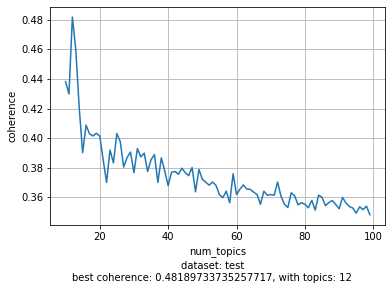
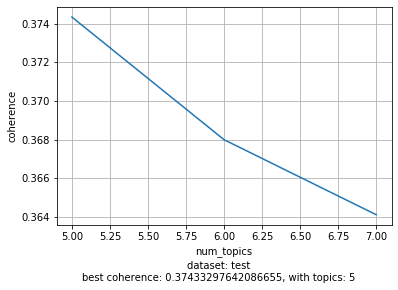
lwwasdasdfasdfsdfsadffeasdf

Changed region(s): [[0.0, 0.031, 1.0, 0.9931]]

diff --git a/corpora/notebooks/test_gensim.py b/corpora/notebooks/test_gensim.py
@@ -1,7 +1,7 @@
 #!/usr/bin/env python
 # coding: utf-8
 
-# In[1]:
+# In[2]:
 
 
 import pandas as pd
@@ -14,7 +14,7 @@ import gensim.models.coherencemodel
 import matplotlib.pyplot as plt
 
 
-# In[54]:
+# In[3]:
 
 
 def make_data(dataset_name):
@@ -78,7 +78,7 @@ def find_best_topic_num(datasets, lim_low, lim_high):
     
 
 
-# In[56]:
+# In[7]:
 
 
 # https://www.machinelearningplus.com/nlp/topic-modeling-gensim-python/
@@ -87,8 +87,8 @@ def find_best_topic_num(datasets, lim_low, lim_high):
 # The weights reflect how important a keyword is to that topic
 # usually one cand find a name for the topic (has to look at the keywords manually)
 
-datasets = ["norm_tweet", "tweet"]
-find_best_topic_num(datasets, 25, 100)
+datasets = ["test", "norm_test"]
+find_best_topic_num(datasets, 5, 8)
 
     
     
@@ -153,19 +153,19 @@ find_best_topic_num(datasets, 25, 100)
 # In[81]:
 
 
-#new_doc = [dic.doc2bow(sample) for sample in sentences_split[:1]]
+new_doc = [dic.doc2bow(sample) for sample in sentences_split[:1]]
 # ein neues doc muss ein satz sein (also eine liste)
-#new_doc2 = dic.doc2bow(*sentences_split[:1])
+new_doc2 = dic.doc2bow(*sentences_split[:1])
 print(new_doc)
 print(new_doc2)
 # get topics from a new document (fremd am besten)
-#top = lda_model.get_document_topics(new_doc, minimum_probability=None, minimum_phi_value=None, per_word_topics=False)
-#top2 = lda_model.get_document_topics(new_doc2, minimum_probability=None, minimum_phi_value=None, per_word_topics=False)
+top = lda_model.get_document_topics(new_doc, minimum_probability=None, minimum_phi_value=None, per_word_topics=False)
+top2 = lda_model.get_document_topics(new_doc2, minimum_probability=None, minimum_phi_value=None, per_word_topics=False)
 # zeige alle topics in dem document
-#for i, x in enumerate(top):
-#    print(x)
-#for i, x in enumerate(top2):
-#    print(x)
+for i, x in enumerate(top):
+    print(x)
+for i, x in enumerate(top2):
+    print(x)
 
 
 # In[ ]:
